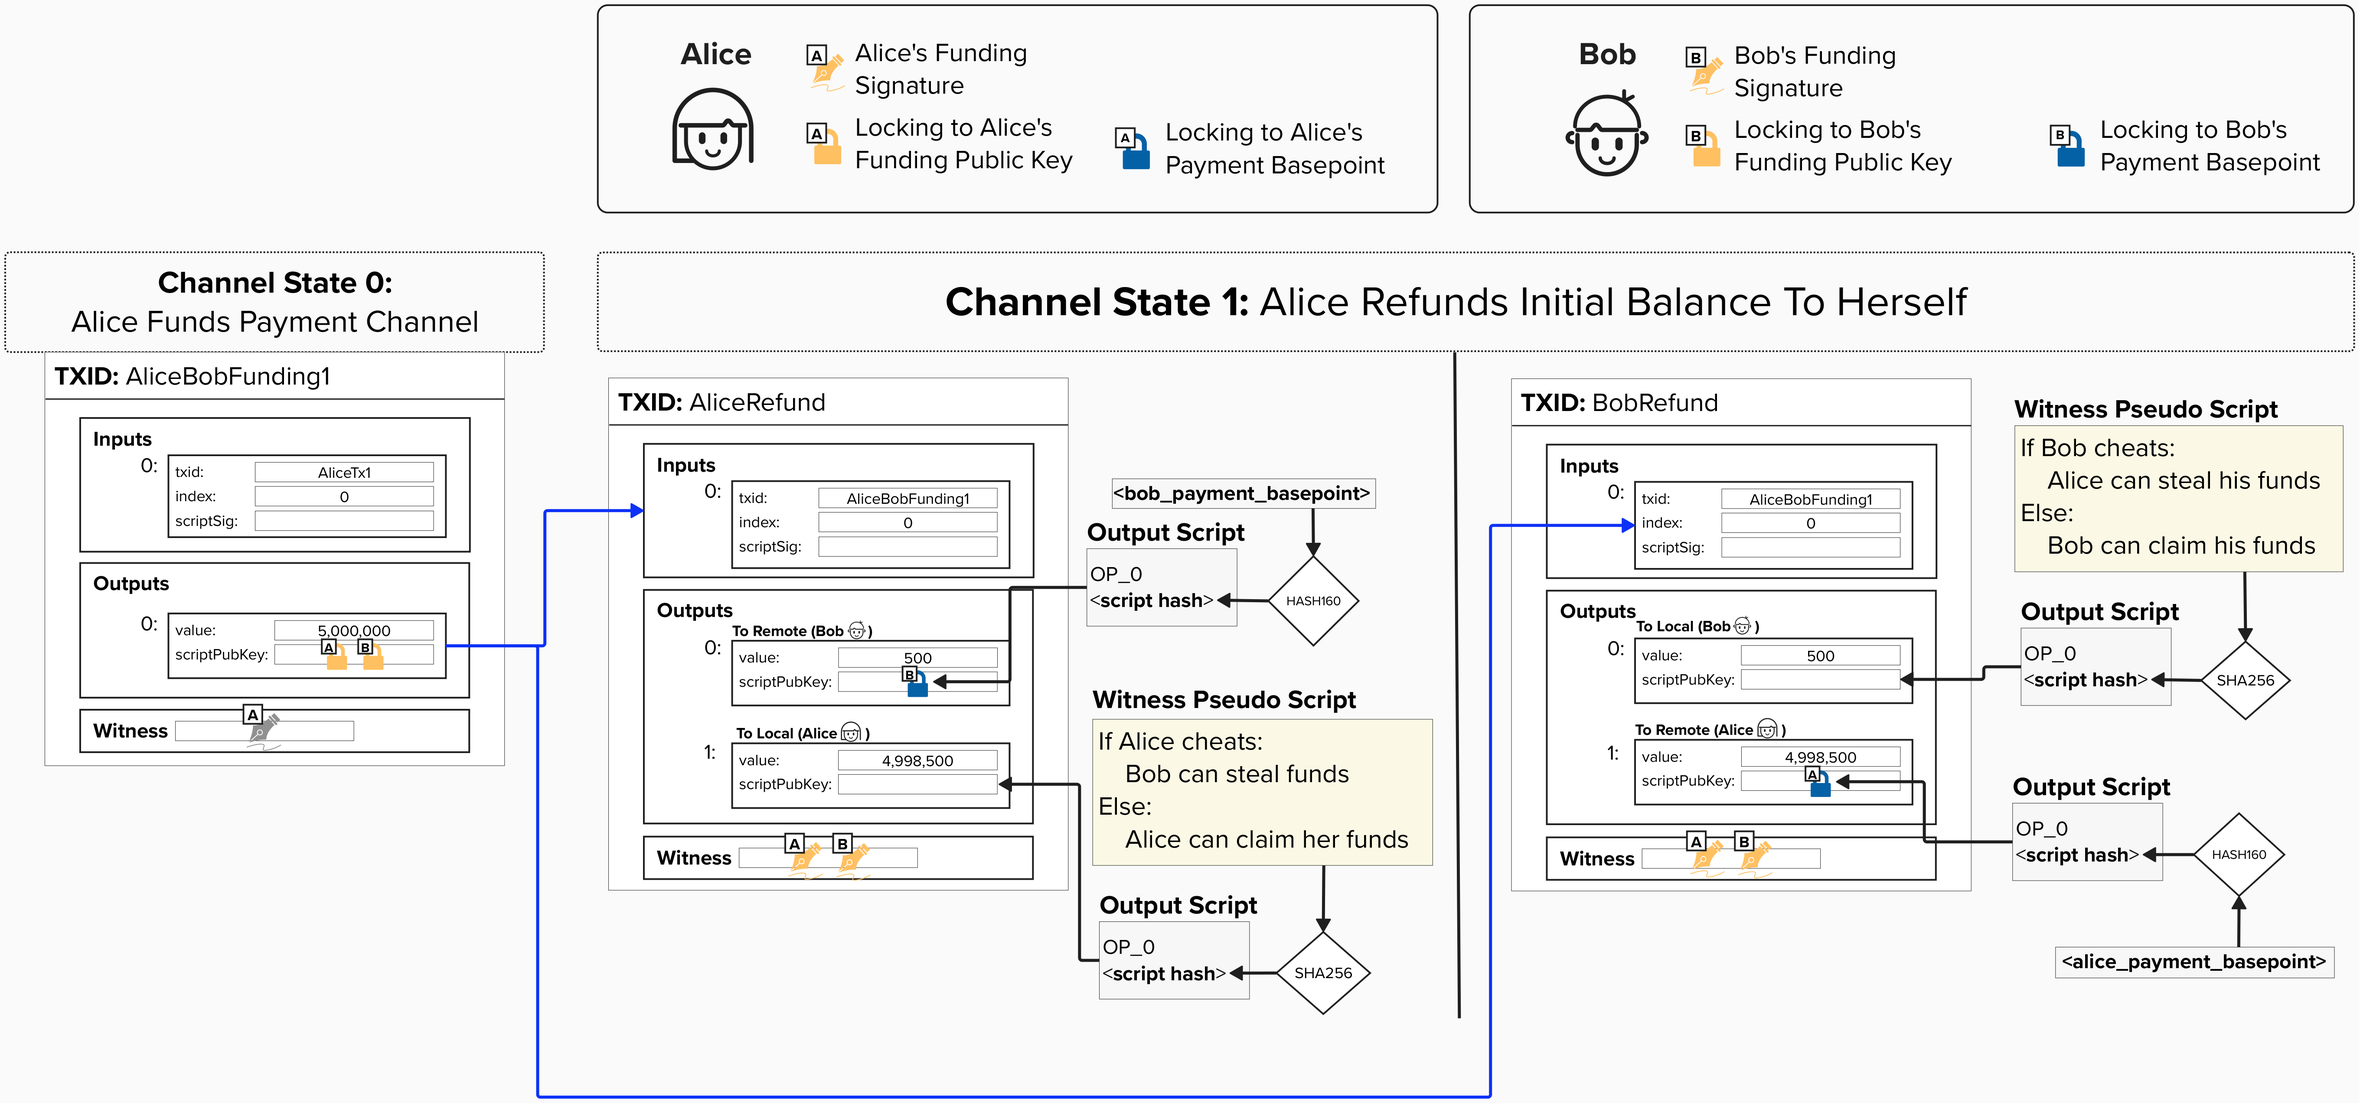
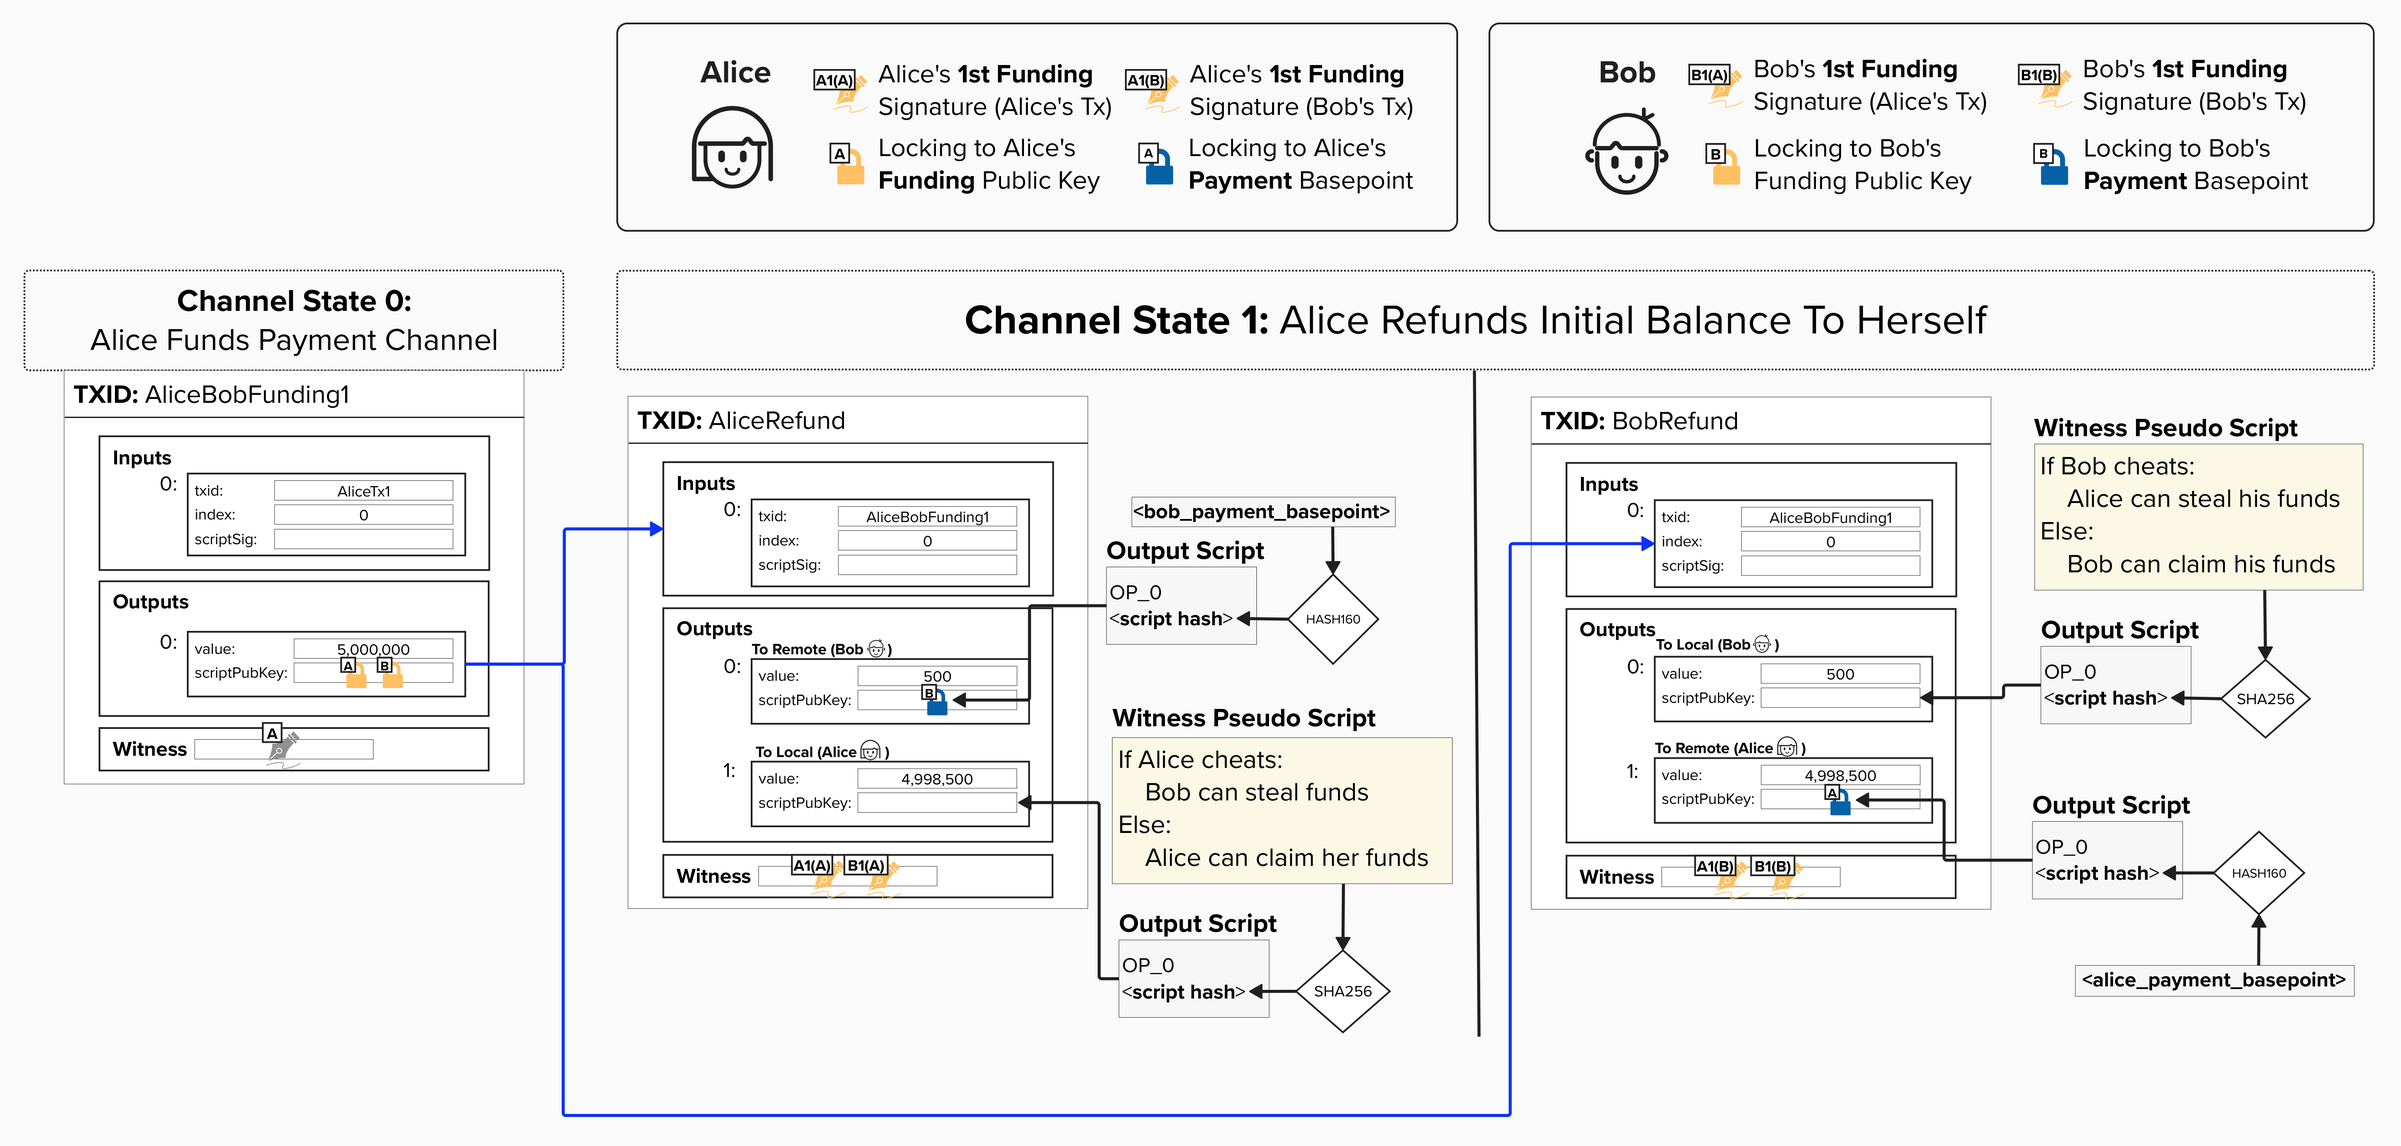
update signature content

diff --git a/.tutorial/xx8-asymmetric-commits.md b/.tutorial/xx8-asymmetric-commits.md
@@ -1,9 +1,10 @@
 # Asymmetric Commitment Transactions 
+
 You're probably itching to dig into advanced cryptography and punish some cheaters, but it will make our lives much easier if we introduce the concept of **asymmetric commitment transactions** first. 
 
-To build out a robust penalty mechanism, we'll need to first update our payment channel construction so that *each party has their own version of* ***each*** *commitment transaction*. They are mirror images of each other, but their output scripts are slightly different. As we'll see, **asymmetric commitment transactions provide us with a way to punish the cheating party**. 
+To build out our robust penalty mechanism, we'll need to update our payment channel construction so that *each party has their own version of* ***each*** *commitment transaction*. They are mirror images of each other, but their output scripts are slightly different. As we'll see, **asymmetric commitment transactions provide us with a way to punish the cheating party**. 
 
-In the below example, you can see that both Alice and Bob's versions reflect the same distribution of funds. **However, Alice's transaction has a special locking script for the output that pays to her public key, and Bob's transaction has a special locking script for the output that pays to his public key**.
+In the below example, you can see that both Alice and Bob's versions reflect the same distribution of funds. **However, Alice's version of the transaction has a special locking script for her output, and Bob's version of the transaction has a special locking script for his output**.
 
 <p align="center" style="width: 50%; max-width: 300px;">
   <img src="./tutorial_images/asym_pseudo.png" alt="asym_pseudo" width="100%" height="auto">
@@ -13,9 +14,12 @@ In the below example, you can see that both Alice and Bob's versions reflect the
   <summary>The concept of "asymmetric commitment transactions" is very important if you want to understand how Lightning works. To help make sure this makes sense, click here and try to validate the following...</summary>
 
 As we mentioned above, both Alice and Bob will have their own commitment transaction **for each channel state**. Take a moment and see if you can verify the following, using the picture below. You will probably have to zoom in!
+
 - For Channel State 1, Alice's `to_local` has the same amount as Bob's `to_remote`. Both of these represent funds that Alice owns.
-- For Channel State 1, both of the `to_local` outputs contain a spending path that allows the counterparty to punish the broadcaster ***if the broadcaster cheats***. Remember, "cheating" means publishing an old channel state. In other words, if Alice publishes an old transaction, her output has a spending path for Bob to steal her funds. If Bob publishes and old transaction, his output has a spending path for Alice to steal his funds. 
+- For Channel State 1, both of the `to_local` outputs contain a spending path that allows the counterparty to punish the broadcaster ***if the broadcaster cheats***. Remember, "cheating" means publishing an old channel state. In other words, if Alice publishes an old transaction, her output has a spending path for Bob to steal her funds. If Bob publishes an old transaction, his output has a spending path for Alice to steal his funds.
+- For Channel State 1, Alice produces two distinct signatures: one for her version and one for Bob's. This is required since Alice and Bob's versions are technically different, so they will each have a unique signature.
 - For Channel State 2, once Alice sends 1,000,000 sats to Bob, all outputs for Alice and Bob are updated to reflect this payment. From this diagram, it should be clear that each party possesses their own unique copy of the commitment transaction, with these versions being asymmetric to one another.
+- For Channel State 2, once again, Alice and Bob both generate unique signatures for each version of the commitment transactions. 
 
 <p align="center" style="width: 50%; max-width: 300px;">
   <img src="./tutorial_images/asymmetric_commit_validation.png" alt="asymmetric_commit_validation" width="100%" height="auto">
@@ -24,30 +28,33 @@ As we mentioned above, both Alice and Bob will have their own commitment transac
 </details>
 
 <details>
-  <summary>Why do we need asymetric commitment transactions?</summary>
+  <summary>Why do we need asymmetric commitment transactions?</summary>
 
-The Lightning Network fairness protocol is set up in such a way that **you protect your counterparty** from ***you*** cheating. This is why the output that has ***your*** balance contains the penalty mechanism, while the output with your counterparty's balance is a simple **P2WPKH**. 
+The Lightning Network fairness protocol is set up in such a way that **you protect your counterparty** from ***you*** cheating. This is why the output that has ***your*** balance (on ***your version of the transaction***) contains the penalty mechanism, while the output with your counterparty's balance is a simple **P2WPKH**. 
 
-Remember, the way to cheat in Lightning is by publishing an old commitment state. Since all of your commitment transactions lock ***your*** bitcoin balance to a special locking script with a penalty mechanism, your counterparty will be able to claim your output if you publish an old state.
+Remember, the way to cheat in Lightning is by publishing an old commitment state. Since all of ***your*** commitment transactions lock ***your*** bitcoin balance to a special locking script with a penalty mechanism, your counterparty will be able to claim your output if you publish an old state.
+
 </details>
 
 # Exchanging Signatures
 
-To fully understand how asymetric commitment transactions work, we'll have to review the process of exchanging signatures. To do this, let's return to BOLT 2 and the protocol messages that are exchanged as part of the **Channel Establishment** process. Now that we've identified that we need a refund transaction (which is really just the first commitment transaction), we can review the rest of the protocol messages and even see how the information included in each message contributes to our asymetric commitments!
+As the podcasters say, let's "double-click" into the process of exchanging signatures. To do this, we'll return to BOLT 2 and the protocol messages exchanged as part of the **Channel Establishment** process. Now that we've identified that we need a Refund Transaction (which is really just the first Commitment Transaction), we can review the rest of the protocol messages and see how the information included in each message contributes to our asymmetric commitments!
 
 ### Open Channel
-We already reviewed the open channel message, so we won't discuss this in much depth. However, what we will draw attention to is the shaded area in the diagrams below. If an area is shaded, it means that the **"holder"** of that transaction does not yet know that information. For example, during the channel open process, Alice does not yet have Bob's funding public key or any of the other cryptographic material needed to operate their payment channel. Therefore, she cannot construct the full 2-of-2 multisig witness script yet, which also means she does not yet know the transaction ID for the funding transaction. Additionally, she doesn't yet know Bob's payment basepoint, and she doesn't have his signature for the first commitment transaction.
 
-On the other hand, once Bob receives Alice's `open_channel` message, he now has her **payment basepoint** so he can construct the Pay-To-Witness-Public-Key-Hash (P2WPKH) output for her. That said, he still doesn't have her signature, nor does he have much information about the funding transaction, so he can't add the input to his version of the first commitment transaction yet.
+We already reviewed the open channel message, so we won't discuss this in much depth. However, what we will draw attention to is the shaded area in the diagrams below. If an area is shaded, it means that the **"holder"** of that transaction does not yet know that information. For example, during the channel open process, Alice does not yet have **Bob's Funding Public Key** or any of the other cryptographic material needed to operate their payment channel. Therefore, she cannot construct the full 2-of-2 multisig witness script yet, which also means she does not yet know the transaction ID for the Funding Transaction. Additionally, she doesn't yet know **Bob's Payment Basepoint**, and she doesn't have his signature for the first commitment transaction.
+
+On the other hand, once Bob receives Alice's `open_channel` message, he now has **Alice's Payment Basepoint** so he can construct the Pay-To-Witness-Public-Key-Hash (P2WPKH) output for her. That said, he still doesn't have her signature, nor does he have much information about the Funding Transaction, so he can't add the input to his version of the first commitment transaction yet.
 
 <p align="center" style="width: 50%; max-width: 300px;">
   <img src="./tutorial_images/sig_exchange_1.png" alt="sig_exchange_1" width="100%" height="auto">
 </p>
 
 ### Accept Channel
-As we learned earlier, if Bob accepts the channel, he will send an `accept_channel` message to Alice. In this message, he will provide, among other things, the public keys that Alice needs to complete the funding transaction and her version of the refund transaction. We haven't yet dug into the details regarding how each commitment state is updated, but it's worth noting that Bob also provides Alice with the information needed to derive the new public keys for each new commitment state.
 
-Once Alice recieves this information, she is able to add bob's funding public key to the 2-of-2 multisig and complete the funding transaction, which now means Alice has the funding TX ID and output information.
+As we learned earlier, if Bob accepts the channel, he will send an `accept_channel` message to Alice. In this message, he will provide, among other things, the public keys that Alice needs to complete the Funding Transaction and her version of the first Commitment Transaction, which we're calling the Refund Transaction. We haven't dug into the details regarding how each commitment state is updated yet, but it's worth noting that Bob also provides Alice with the information needed to derive the new public keys for each new commitment state.
+
+Once Alice receives this information, she is able to add **Bob's Funding Public Key** to the 2-of-2 multisig and complete the Funding Transaction, which now means Alice has the Funding TX ID and output information.
 
 <p align="center" style="width: 50%; max-width: 300px;">
   <img src="./tutorial_images/sig_exchange_2.png" alt="sig_exchange_2" width="100%" height="auto">
@@ -55,11 +62,11 @@ Once Alice recieves this information, she is able to add bob's funding public ke
 
 ### Funding Created
 
-This is where we start building on the protocol messages we learned about earlier! Once Alice recieves the `accept_channel` message, she'll want to communicate the funding transaction information to Bob so that he can build his version of the first commitment transaction, which we're calling the "refund transaction". Therefore, she will send him a `funding_created` message, which includes the TX ID, funding output index, and **her signature for Bob's initial commitment**.
+This is where we start building on the protocol messages we learned about earlier! Once Alice receives the `accept_channel` message, she'll want to communicate the funding transaction information to Bob so that he can build his version of the First Commitment Transaction, which we're calling the "Refund Transaction". Therefore, she will send him a `funding_created` message, which includes the TX ID, funding output index, and **her signature for Bob's initial commitment**.
 
-At this point, Bob now has a version of the commitment transaction that is fully signed. However, Alice has not broadcast the funding transaction yet, so Bob's refund transaction would be rejected by the network if he tried to publish it for some reason, as the UTXO it's spending from does not yet exist.
+At this point, Bob now has a version of the commitment transaction that is fully signed. However, Alice has not broadcast the Funding Transaction yet, so Bob's Refund Transaction would be rejected by the network if he tried to publish it, as the UTXO it's spending from does not yet exist.
 
-💡 **NOTE: The signature that Alice gives Bob in this message is NOT the same signature that she is using on her version of the commitment transaction!** Since the commitment transactions are symetrical, but not exactly the same, Alice and Bob will be "signing" different transactions, resulting in different signatures. This is actually a *crucial* piece of the security model. While Bob will have **Alice's signature** for **his version** of the initial commitment transaction, Bob will never give Alice **his signature** for **his own** version of the commitment transaction. Therefore, Alice will never be able to publish Bob's version of the commitment! This is also true in the reverse - Bob will never be able to publish Alice's version of the commitment transaction.
+> 💡 **REMINDER:** The signature that Alice gives Bob in this message is NOT the same signature that she uses on her version of the commitment transaction! Since the commitment transactions are asymmetrical but not exactly the same, Alice and Bob will be "signing" different transactions, resulting in different signatures. This is actually a *crucial* piece of the security model. While Bob will have **Alice's signature** for **his version** of the initial commitment transaction, Bob will never give Alice **his signature** for **his** version of the Commitment Transaction. Therefore, Alice will never be able to publish Bob's version of the commitment! This is also true in reverse: Bob will never be able to publish Alice's version of the Commitment Transaction.
 
 <p align="center" style="width: 50%; max-width: 300px;">
   <img src="./tutorial_images/sig_exchange_3.png" alt="sig_exchange_3" width="100%" height="auto">
@@ -67,7 +74,7 @@ At this point, Bob now has a version of the commitment transaction that is fully
 
 ### Funding Signed
 
-Finally, once Bob recieves the `funding_created` message from Alice, he will respond with a `funding_signed` message. This message will include **Bob's signature** for **Alice's version of the initial commitment transaction** (Alice's version of the refund transaction). It's also worth noting that, at this point, we can finally calculate a durable (not temporary) `channel_id`. According to BOLT 2, the `channel_id` is "derived from the funding transaction by combining the `funding_txid` and the `funding_output_index`, using big-endian exclusive-OR".
+Finally, once Bob receives the `funding_created` message from Alice, he will respond with a `funding_signed` message. This message will include **Bob's signature** for **Alice's version of the first Commitment Transaction** (Alice's version of the Refund Transaction). It's also worth noting that, at this point, we can finally calculate a durable (not temporary) `channel_id`. According to BOLT 2, the `channel_id` is "derived from the Funding Transaction by combining the `funding_txid` and the `funding_output_index`, using big-endian exclusive-OR".
 
 <p align="center" style="width: 50%; max-width: 300px;">
   <img src="./tutorial_images/sig_exchange_4.png" alt="sig_exchange_4" width="100%" height="auto">
@@ -80,7 +87,18 @@ Hopefully, the following points are now clear:
 2) Signatures are exchanged such that each party can only ever broadcast **their own version** of a commitment transaction.
 
 
-## ⚡ Generate A Signature 
+## ⚡ Generate A Signature
+
+Now that we've reviewed how signatures are exchanged over the Lightning Protocol, let's implement a function so that we can generate one of those signatures ourselves! As we'll see later, this will be central to our implementation, and we'll use it to sign commitment transactions later in the course.
+
+For this exercise, head over to `src/exercises/keys/channel_key_manager.rs` and find `pub fn sign_transaction_input`. As you can see, this function is within an `impl` block, so it has access to all of the internal components that are available via the `ChannelKeyManager` that we built in an earlier exericse. This function takes the following inputs:
+- `tx`: The transaction we want to sign.
+- `input_index`: The input index of the transaction we're signing.
+- `script`: The witness script that we're signing. We'll pass the 2-of-2 multisig witness script into this function later!
+- `amount`: The value of the UTXO being spent
+- `secret_key`: The private key we're signing with.
+
+The function should return the signature as a `Vec<u8>`, with the sighash type byte appended.
 
 ```rust
 impl ChannelKeyManager {

diff --git a/.tutorial/xx7-revocable-transactions.md b/.tutorial/xx7-revocable-transactions.md
@@ -1,8 +1,8 @@
 # Adding A Penalty Mechanism For Cheating
 
-A **penalty mechanism** is a rule or process designed to deter undesirable behavior by imposing negative consequences on  entities that violate the rules.
+A **penalty mechanism** is a rule or process designed to deter undesirable behavior. Think back to our fairness protocol example from earlier. If Alice attempted to "cheat" Bob when cutting the cake, Bob could "punish" Alice by taking the plate with more cake. Things were so simple back then!
 
-Think back to our fairness protocol example from earlier. If Alice attempted to "cheat" Bob when cutting the cake, Bob could "punish" Alice by taking the plate with more cake. Things were so simple back then!
+The above **penalty mechanism** works because it imposes negative consequences on people who violate the rules, disincentivizing them from doing so.
 
 #### Can you think of a rule or mechanism we can implement in our channel to allow one party to punish the other if they attempt to cheat? You don't have to think of the exact technical implementation just yet - a simple intuition is fine for now.
 
